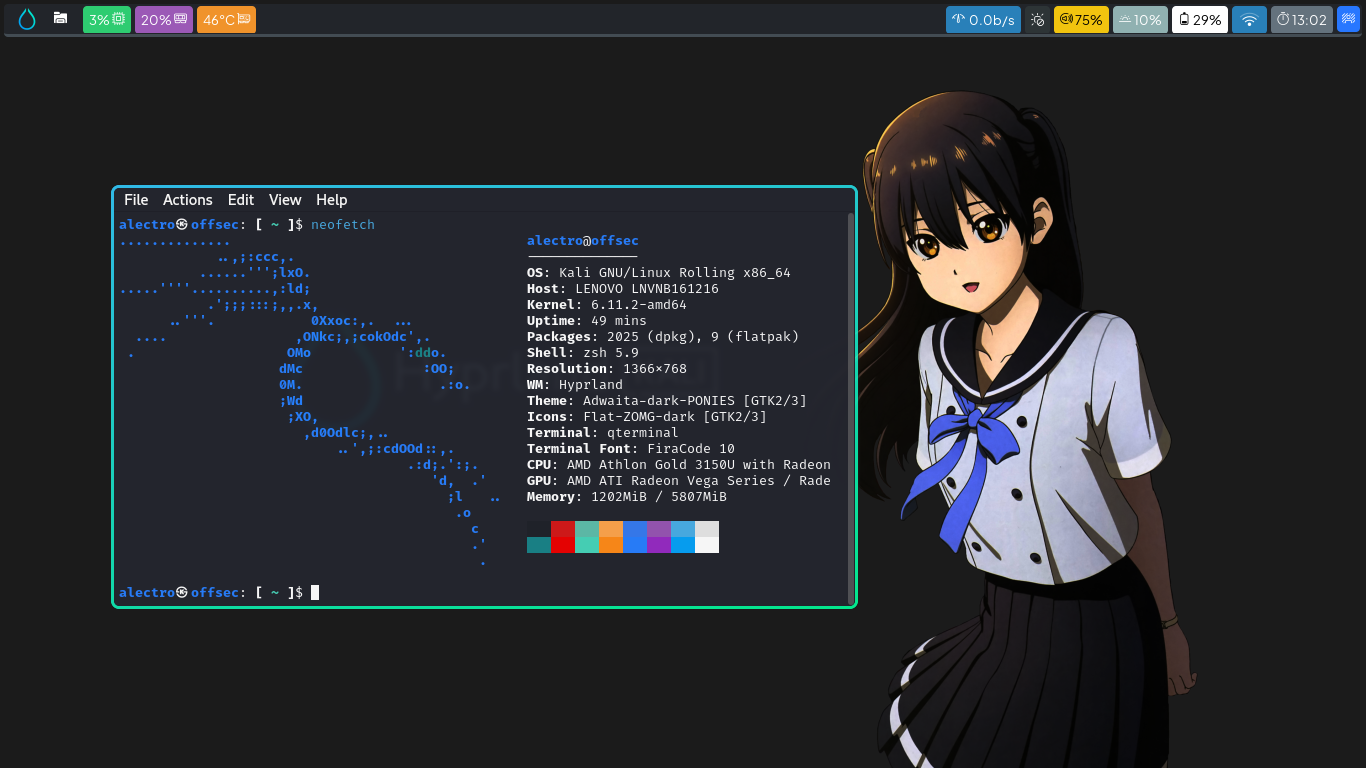
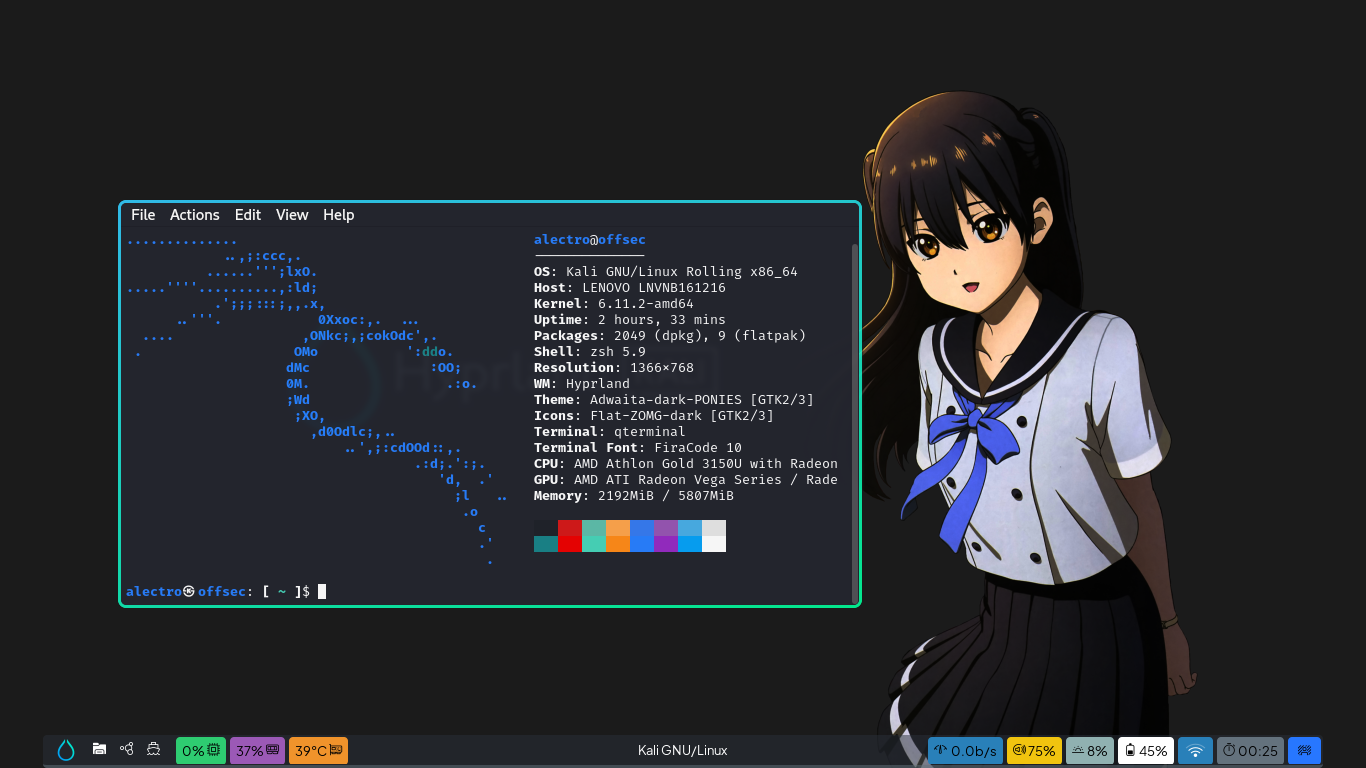
improvement remove list doc resize window > true remove unused keybinds obs default to workspace 10 waybar now on bottom music play info > enable name window > enable idle_inhibitor > disable improvement color font set > black image #2 README.md ++

diff --git a/.config/waybar/style.css b/.config/waybar/style.css
@@ -23,7 +23,7 @@ window#waybar.empty {
     background-color: transparent;
 }
 window#waybar.solo {
-    background-color: #FFFFFF;
+    background-color: transparent;
 }
 
 window#waybar.termite {
@@ -96,6 +96,7 @@ button:hover {
 #pulseaudio,
 #wireplumber,
 #custom-media,
+#custom-power,
 #tray,
 #mode,
 #idle_inhibitor,
@@ -104,7 +105,7 @@ button:hover {
 #mpd {
     padding: 0px 6px;
     margin-bottom: -1px;
-    color: #ffffff;
+    color: #000000;
 }
 
 #window,
@@ -180,7 +181,7 @@ label:focus {
 
 #cpu {
     background-color: #2ecc71;
-    color: #ffffff;
+    color: #000000;
 }
 
 #memory {
@@ -224,7 +225,7 @@ label:focus {
 
 #custom-media {
     background-color: #66cc99;
-    color: #2a5c45;
+    color: #000000;
     min-width: 100px;
 }
 
@@ -259,6 +260,7 @@ label:focus {
 
 #idle_inhibitor {
     background-color: #2d3436;
+    color: #ffffff;
 }
 
 #idle_inhibitor.activated {

diff --git a/.config/waybar/mediaplayer.py b/.config/waybar/mediaplayer.py
@@ -1,0 +1,195 @@
+#!/usr/bin/env python3
+import gi
+gi.require_version("Playerctl", "2.0")
+from gi.repository import Playerctl, GLib
+from gi.repository.Playerctl import Player
+import argparse
+import logging
+import sys
+import signal
+import gi
+import json
+import os
+from typing import List
+
+logger = logging.getLogger(__name__)
+
+def signal_handler(sig, frame):
+    logger.info("Received signal to stop, exiting")
+    sys.stdout.write("\n")
+    sys.stdout.flush()
+    # loop.quit()
+    sys.exit(0)
+
+
+class PlayerManager:
+    def __init__(self, selected_player=None, excluded_player=[]):
+        self.manager = Playerctl.PlayerManager()
+        self.loop = GLib.MainLoop()
+        self.manager.connect(
+            "name-appeared", lambda *args: self.on_player_appeared(*args))
+        self.manager.connect(
+            "player-vanished", lambda *args: self.on_player_vanished(*args))
+
+        signal.signal(signal.SIGINT, signal_handler)
+        signal.signal(signal.SIGTERM, signal_handler)
+        signal.signal(signal.SIGPIPE, signal.SIG_DFL)
+        self.selected_player = selected_player
+        self.excluded_player = excluded_player.split(',') if excluded_player else []
+
+        self.init_players()
+
+    def init_players(self):
+        for player in self.manager.props.player_names:
+            if player.name in self.excluded_player:
+                continue
+            if self.selected_player is not None and self.selected_player != player.name:
+                logger.debug(f"{player.name} is not the filtered player, skipping it")
+                continue
+            self.init_player(player)
+
+    def run(self):
+        logger.info("Starting main loop")
+        self.loop.run()
+
+    def init_player(self, player):
+        logger.info(f"Initialize new player: {player.name}")
+        player = Playerctl.Player.new_from_name(player)
+        player.connect("playback-status",
+                       self.on_playback_status_changed, None)
+        player.connect("metadata", self.on_metadata_changed, None)
+        self.manager.manage_player(player)
+        self.on_metadata_changed(player, player.props.metadata)
+
+    def get_players(self) -> List[Player]:
+        return self.manager.props.players
+
+    def write_output(self, text, player):
+        logger.debug(f"Writing output: {text}")
+
+        output = {"text": text,
+                  "class": "custom-" + player.props.player_name,
+                  "alt": player.props.player_name}
+
+        sys.stdout.write(json.dumps(output) + "\n")
+        sys.stdout.flush()
+
+    def clear_output(self):
+        sys.stdout.write("\n")
+        sys.stdout.flush()
+
+    def on_playback_status_changed(self, player, status, _=None):
+        logger.debug(f"Playback status changed for player {player.props.player_name}: {status}")
+        self.on_metadata_changed(player, player.props.metadata)
+
+    def get_first_playing_player(self):
+        players = self.get_players()
+        logger.debug(f"Getting first playing player from {len(players)} players")
+        if len(players) > 0:
+            # if any are playing, show the first one that is playing
+            # reverse order, so that the most recently added ones are preferred
+            for player in players[::-1]:
+                if player.props.status == "Playing":
+                    return player
+            # if none are playing, show the first one
+            return players[0]
+        else:
+            logger.debug("No players found")
+            return None
+
+    def show_most_important_player(self):
+        logger.debug("Showing most important player")
+        # show the currently playing player
+        # or else show the first paused player
+        # or else show nothing
+        current_player = self.get_first_playing_player()
+        if current_player is not None:
+            self.on_metadata_changed(current_player, current_player.props.metadata)
+        else:    
+            self.clear_output()
+
+    def on_metadata_changed(self, player, metadata, _=None):
+        logger.debug(f"Metadata changed for player {player.props.player_name}")
+        player_name = player.props.player_name
+        artist = player.get_artist()
+        title = player.get_title()
+        title = title.replace("&", "&amp;")
+
+        track_info = ""
+        if player_name == "spotify" and "mpris:trackid" in metadata.keys() and ":ad:" in player.props.metadata["mpris:trackid"]:
+            track_info = "Advertisement"
+        elif artist is not None and title is not None:
+            track_info = f"{artist} - {title}"
+        else:
+            track_info = title
+
+        if track_info:
+            if player.props.status == "Playing":
+                track_info = " " + track_info
+            else:
+                track_info = " " + track_info
+        # only print output if no other player is playing
+        current_playing = self.get_first_playing_player()
+        if current_playing is None or current_playing.props.player_name == player.props.player_name:
+            self.write_output(track_info, player)
+        else:
+            logger.debug(f"Other player {current_playing.props.player_name} is playing, skipping")
+
+    def on_player_appeared(self, _, player):
+        logger.info(f"Player has appeared: {player.name}")
+        if player.name in self.excluded_player:
+            logger.debug(
+                "New player appeared, but it's in exclude player list, skipping")
+            return
+        if player is not None and (self.selected_player is None or player.name == self.selected_player):
+            self.init_player(player)
+        else:
+            logger.debug(
+                "New player appeared, but it's not the selected player, skipping")
+
+    def on_player_vanished(self, _, player):
+        logger.info(f"Player {player.props.player_name} has vanished")
+        self.show_most_important_player()
+
+def parse_arguments():
+    parser = argparse.ArgumentParser()
+
+    # Increase verbosity with every occurrence of -v
+    parser.add_argument("-v", "--verbose", action="count", default=0)
+
+    parser.add_argument("-x", "--exclude", "- Comma-separated list of excluded player")
+
+    # Define for which player we"re listening
+    parser.add_argument("--player")
+
+    parser.add_argument("--enable-logging", action="store_true")
+
+    return parser.parse_args()
+
+
+def main():
+    arguments = parse_arguments()
+
+    # Initialize logging
+    if arguments.enable_logging:
+        logfile = os.path.join(os.path.dirname(
+            os.path.realpath(__file__)), "media-player.log")
+        logging.basicConfig(filename=logfile, level=logging.DEBUG,
+                            format="%(asctime)s %(name)s %(levelname)s:%(lineno)d %(message)s")
+
+    # Logging is set by default to WARN and higher.
+    # With every occurrence of -v it's lowered by one
+    logger.setLevel(max((3 - arguments.verbose) * 10, 0))
+
+    logger.info("Creating player manager")
+    if arguments.player:
+        logger.info(f"Filtering for player: {arguments.player}")
+    if arguments.exclude:
+        logger.info(f"Exclude player {arguments.exclude}")
+
+    player = PlayerManager(arguments.player, arguments.exclude)
+    player.run()
+
+
+if __name__ == "__main__":
+    main()

diff --git a/README.md b/README.md
@@ -2,7 +2,16 @@
 
 ![GitHub repo size](https://img.shields.io/github/repo-size/cilegordev/Hyprland-dotfiles?style=for-the-badge&color=808080)
 
-Free bloat❗ just installed from repo❗ nothing outside the repo❗ hyprland, waybar, swaybg, wofi, brightnessctl, pulseaudio and amixer✅
+Free bloat❗ just installed from repo❗ 0 from outside repo❗ 
+- hyprland
+- waybar 
+- swaybg 
+- wofi 
+- brightnessctl
+- pulseaudio
+- amixer
+- playerctl 
+- mpd
 
 |  Preview  |
 |  -  |
